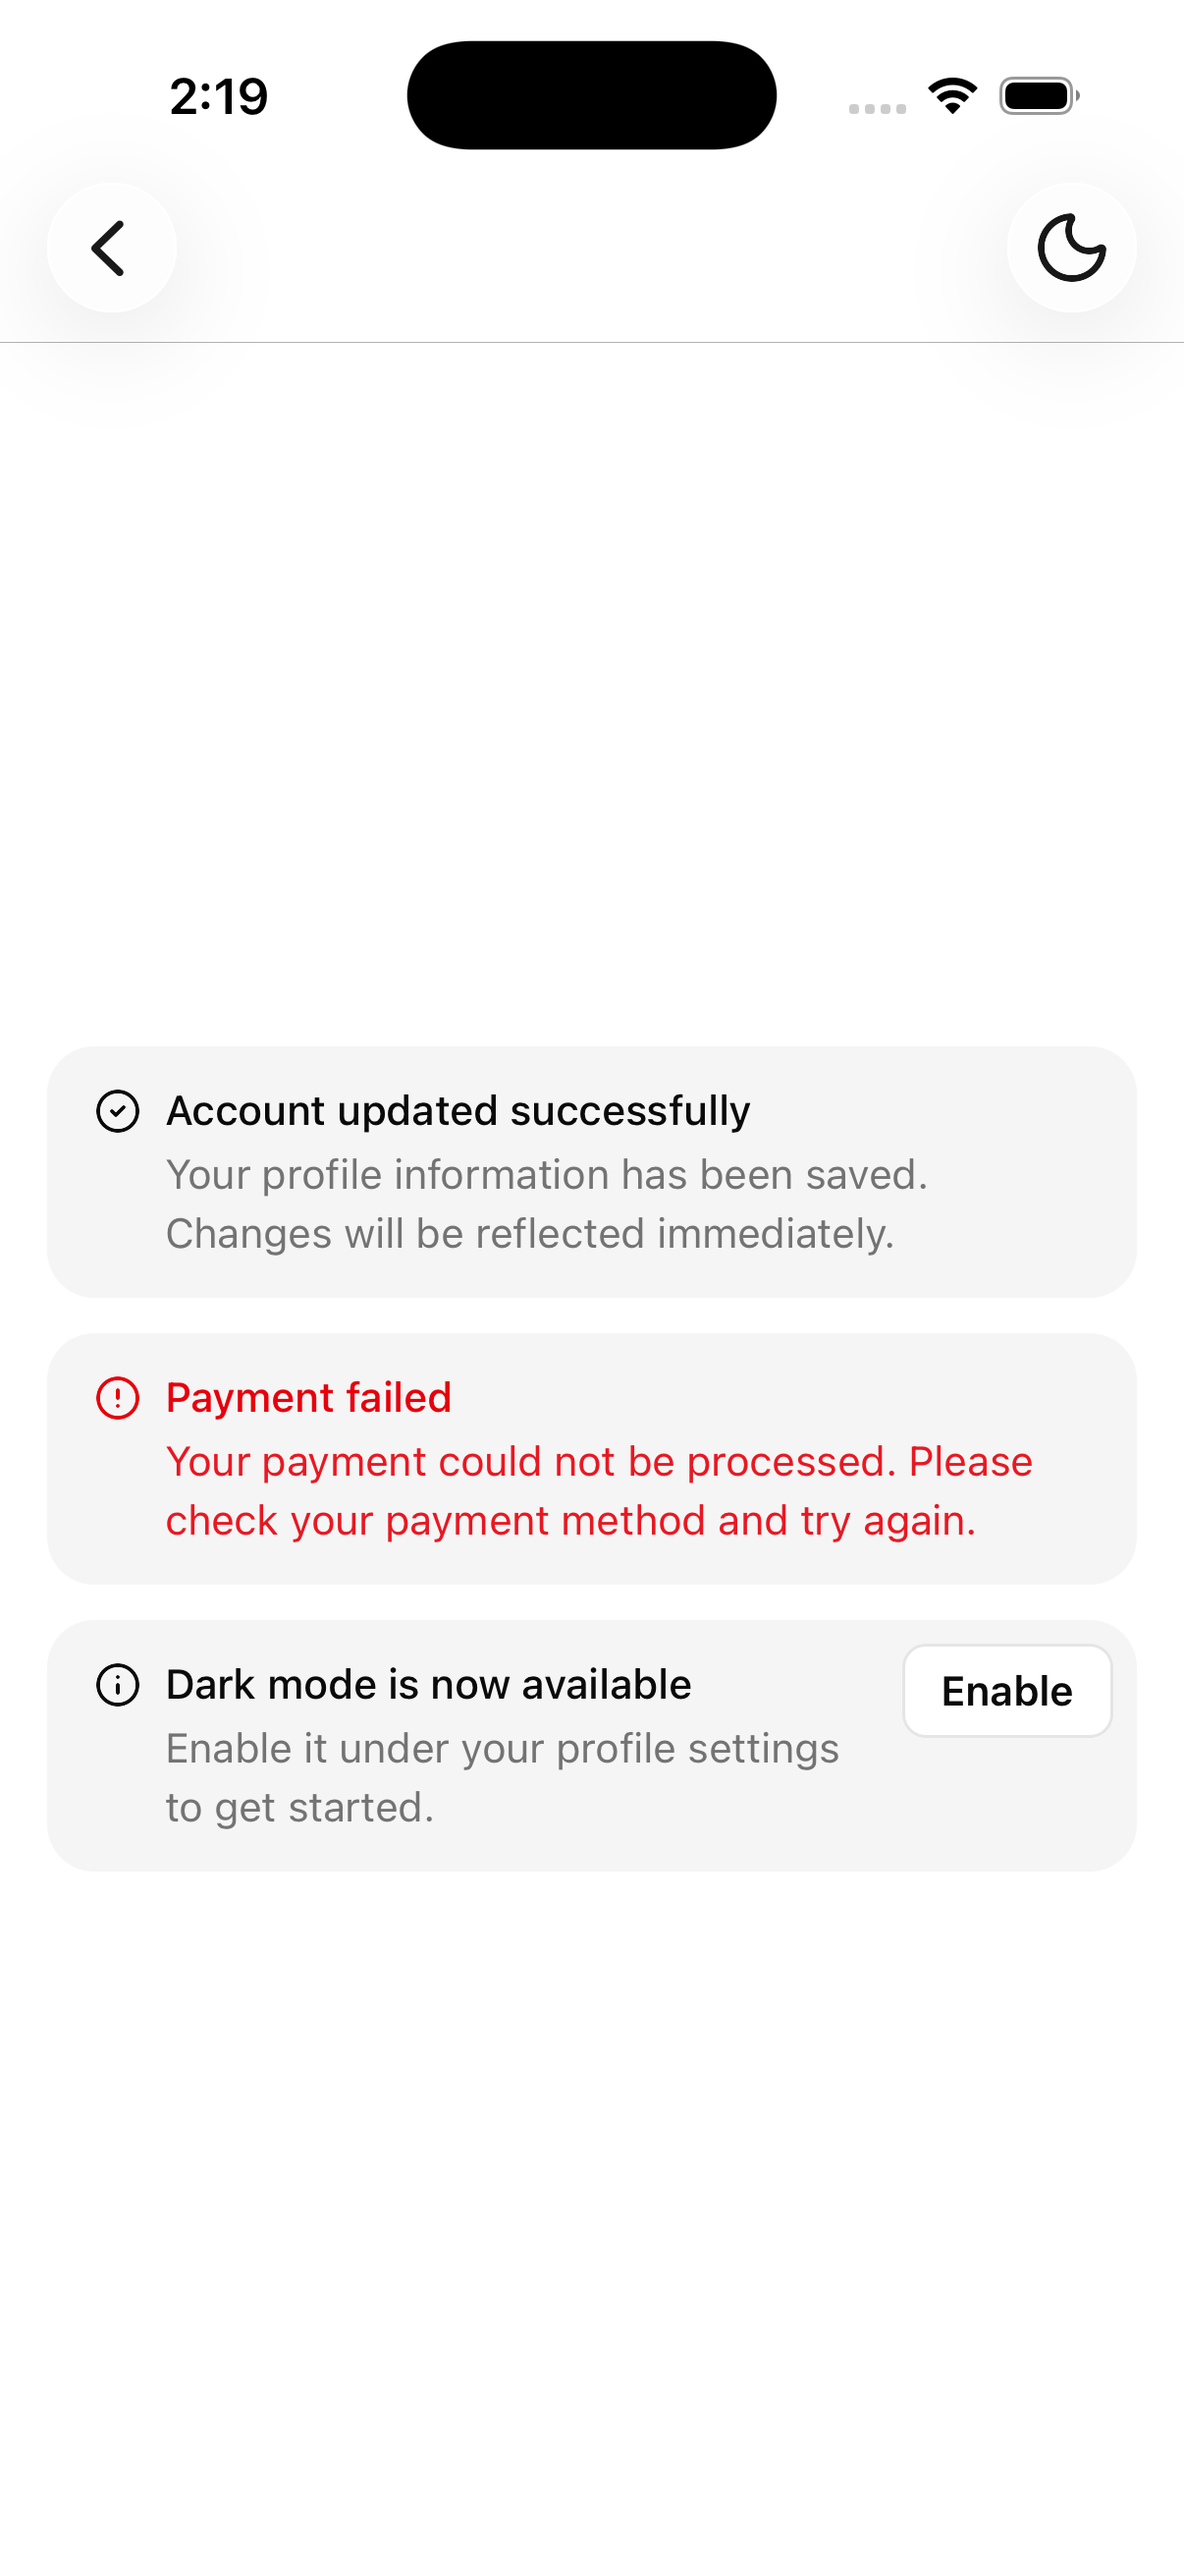
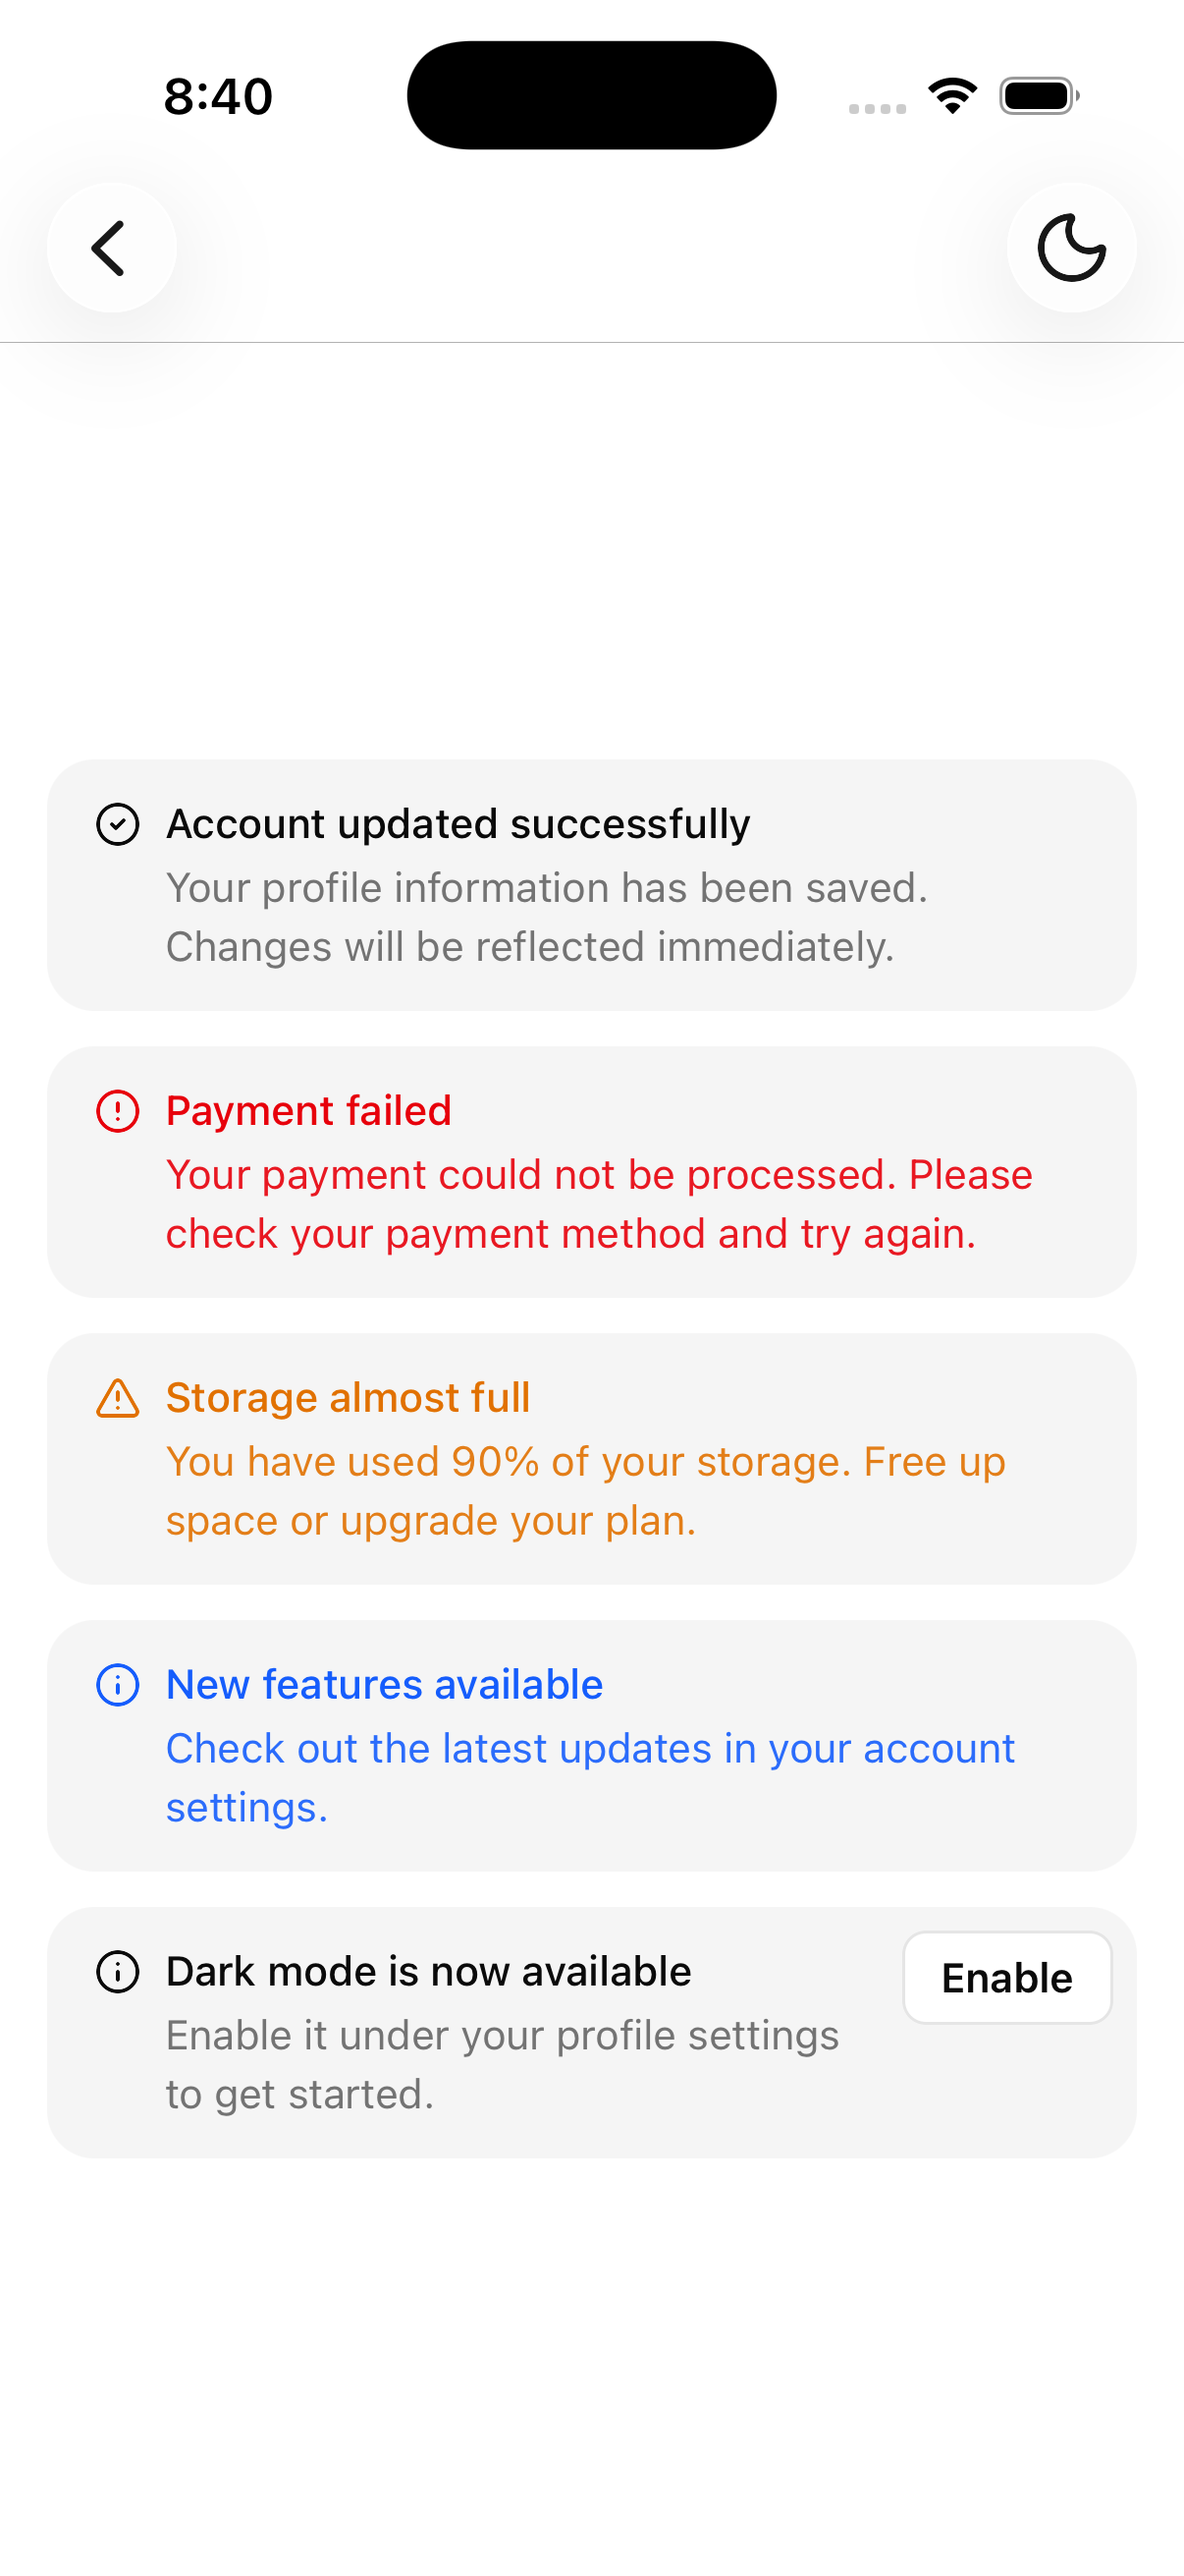
feat: add warning|info alert variants

diff --git a/packages/tetra-ui/src/components/alert.tsx b/packages/tetra-ui/src/components/alert.tsx
@@ -158,8 +158,7 @@ export const AlertIcon = ({
       {cloneElement(element, {
         ...props,
         className: cn(
-          "size-4",
-          variant === "destructive" ? "text-destructive" : "text-foreground",
+          alertIconVariants({ variant }),
           className,
           element.props.className
         ),
@@ -178,11 +177,7 @@ export const AlertTitle = ({
 
   return (
     <Text
-      className={cn(
-        "font-medium text-sm leading-snug",
-        variant === "destructive" ? "text-destructive" : "text-foreground",
-        className
-      )}
+      className={cn(alertTitleVariants({ variant }), className)}
       data-slot="alert-title"
       {...props}
     />
@@ -198,13 +193,7 @@ export const AlertDescription = ({
 
   return (
     <Text
-      className={cn(
-        "text-sm",
-        variant === "destructive"
-          ? "text-destructive/90"
-          : "text-muted-foreground",
-        className
-      )}
+      className={cn(alertDescriptionVariants({ variant }), className)}
       data-slot="alert-description"
       {...props}
     />
@@ -238,6 +227,41 @@ const alertVariants = cva("relative w-full rounded-2xl bg-muted px-4 py-3", {
     variant: {
       default: "",
       destructive: "",
+      info: "",
+      warning: "",
+    },
+  },
+});
+
+const alertIconVariants = cva("size-4", {
+  variants: {
+    variant: {
+      default: "text-foreground",
+      destructive: "text-destructive",
+      info: "text-info",
+      warning: "text-warning",
+    },
+  },
+});
+
+const alertTitleVariants = cva("font-medium text-sm leading-snug", {
+  variants: {
+    variant: {
+      default: "text-foreground",
+      destructive: "text-destructive",
+      info: "text-info",
+      warning: "text-warning",
+    },
+  },
+});
+
+const alertDescriptionVariants = cva("text-sm", {
+  variants: {
+    variant: {
+      default: "text-muted-foreground",
+      destructive: "text-destructive/90",
+      info: "text-info/90",
+      warning: "text-warning/90",
     },
   },
 });

diff --git a/apps/example/components/previews/alert.tsx b/apps/example/components/previews/alert.tsx
@@ -10,6 +10,7 @@ import {
   CircleAlertIcon,
   CircleCheckIcon,
   InfoIcon,
+  TriangleAlertIcon,
 } from "@/components/ui/icons";
 import { Stack } from "@/components/ui/stack";
 
@@ -35,6 +36,26 @@ export function AlertPreview() {
         <AlertDescription>
           Your payment could not be processed. Please check your payment method
           and try again.
+        </AlertDescription>
+      </Alert>
+
+      <Alert variant="warning">
+        <AlertIcon>
+          <TriangleAlertIcon />
+        </AlertIcon>
+        <AlertTitle>Storage almost full</AlertTitle>
+        <AlertDescription>
+          You have used 90% of your storage. Free up space or upgrade your plan.
+        </AlertDescription>
+      </Alert>
+
+      <Alert variant="info">
+        <AlertIcon>
+          <InfoIcon />
+        </AlertIcon>
+        <AlertTitle>New features available</AlertTitle>
+        <AlertDescription>
+          Check out the latest updates in your account settings.
         </AlertDescription>
       </Alert>
 

diff --git a/apps/docs/mdx-components.tsx b/apps/docs/mdx-components.tsx
@@ -26,7 +26,6 @@ export function getMDXComponents(components?: MDXComponents): MDXComponents {
     ComponentSource,
     ComponentsList,
     DocsIntroActions,
-    TypeTable,
     Step: ({ className, ...props }: React.ComponentProps<"h3">) => (
       <h3
         className={cn(
@@ -42,5 +41,6 @@ export function getMDXComponents(components?: MDXComponents): MDXComponents {
         {...props}
       />
     ),
+    TypeTable,
   };
 }
